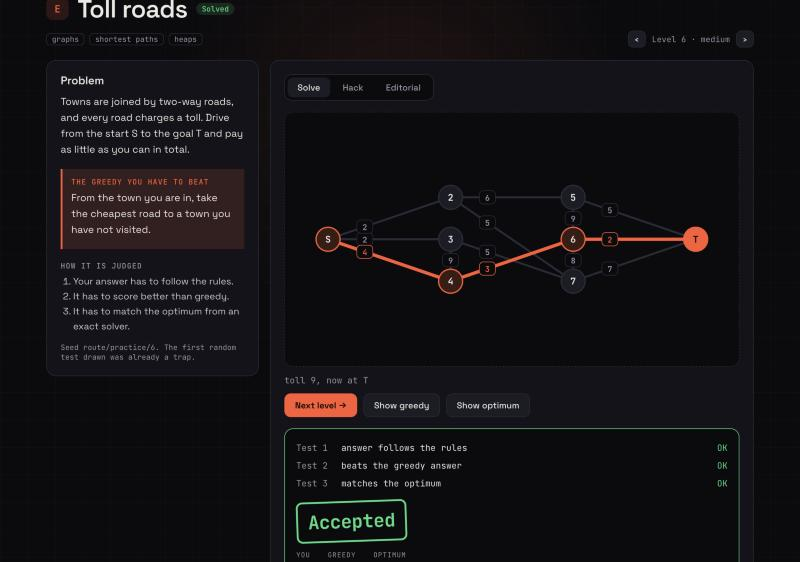
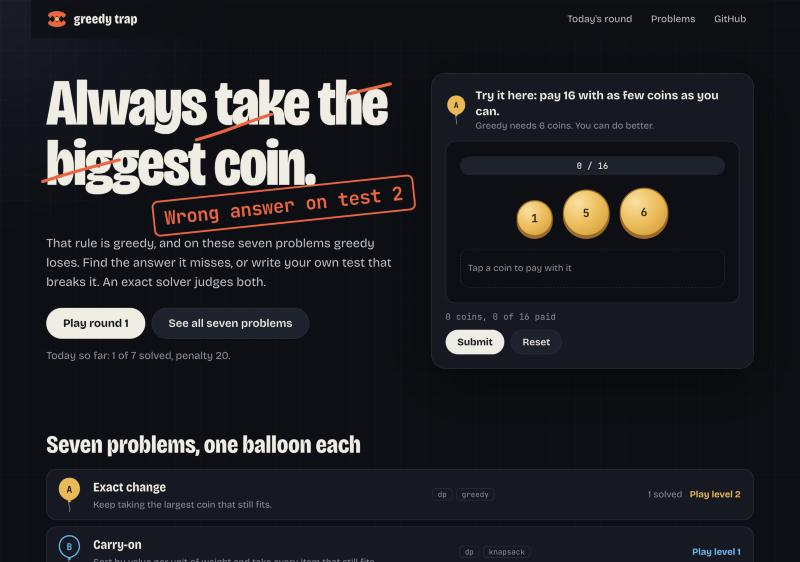
Update the README screenshot
Shows the new front page.

diff --git a/README.md b/README.md
@@ -4,7 +4,7 @@ A browser puzzle game made of seven small optimisation problems. Every level is 
 
 Play it here: https://edward-012.github.io/greedy-trap/
 
-![Problem E solved: the cheapest route is highlighted and the verdict reads Accepted](docs/screenshot.jpg)
+![The front page: a greedy rule struck out and stamped as a wrong answer, with the first level playable beside it](docs/screenshot.jpg)
 
 I build RL environments and automated graders for AI evaluation work. A grader is only worth something if you can check it, so this game is put together the way I would put one of those together: a seeded task generator, a baseline to beat, a reference solution, and a judge whose claims are each backed by a test.
 
@@ -28,7 +28,7 @@ Hack turns it around. You write an input in the problem's input format, the way 
 
 Editorial explains why the greedy fails and which technique gets it right, with the recurrence and the running time. After you solve a level it also shows the solver's table for that exact test, and you can put greedy's answer and the optimal one on the board to compare.
 
-There is also a daily round: one level of each problem, the same for everyone, changing at midnight UTC. It is scored like an ICPC contest, by problems solved and then by penalty (minutes to each accepted answer, plus 20 for every wrong submission before it).
+There is also a daily round: one level of each problem, the same for everyone, changing at midnight UTC. It is scored like an ICPC contest, by problems solved and then by penalty (minutes to each accepted answer, plus 20 for every wrong submission before it). Each problem has its own colour, and solving it fills in that problem's balloon, the way a contest hands one out.
 
 ## Quickstart
 
